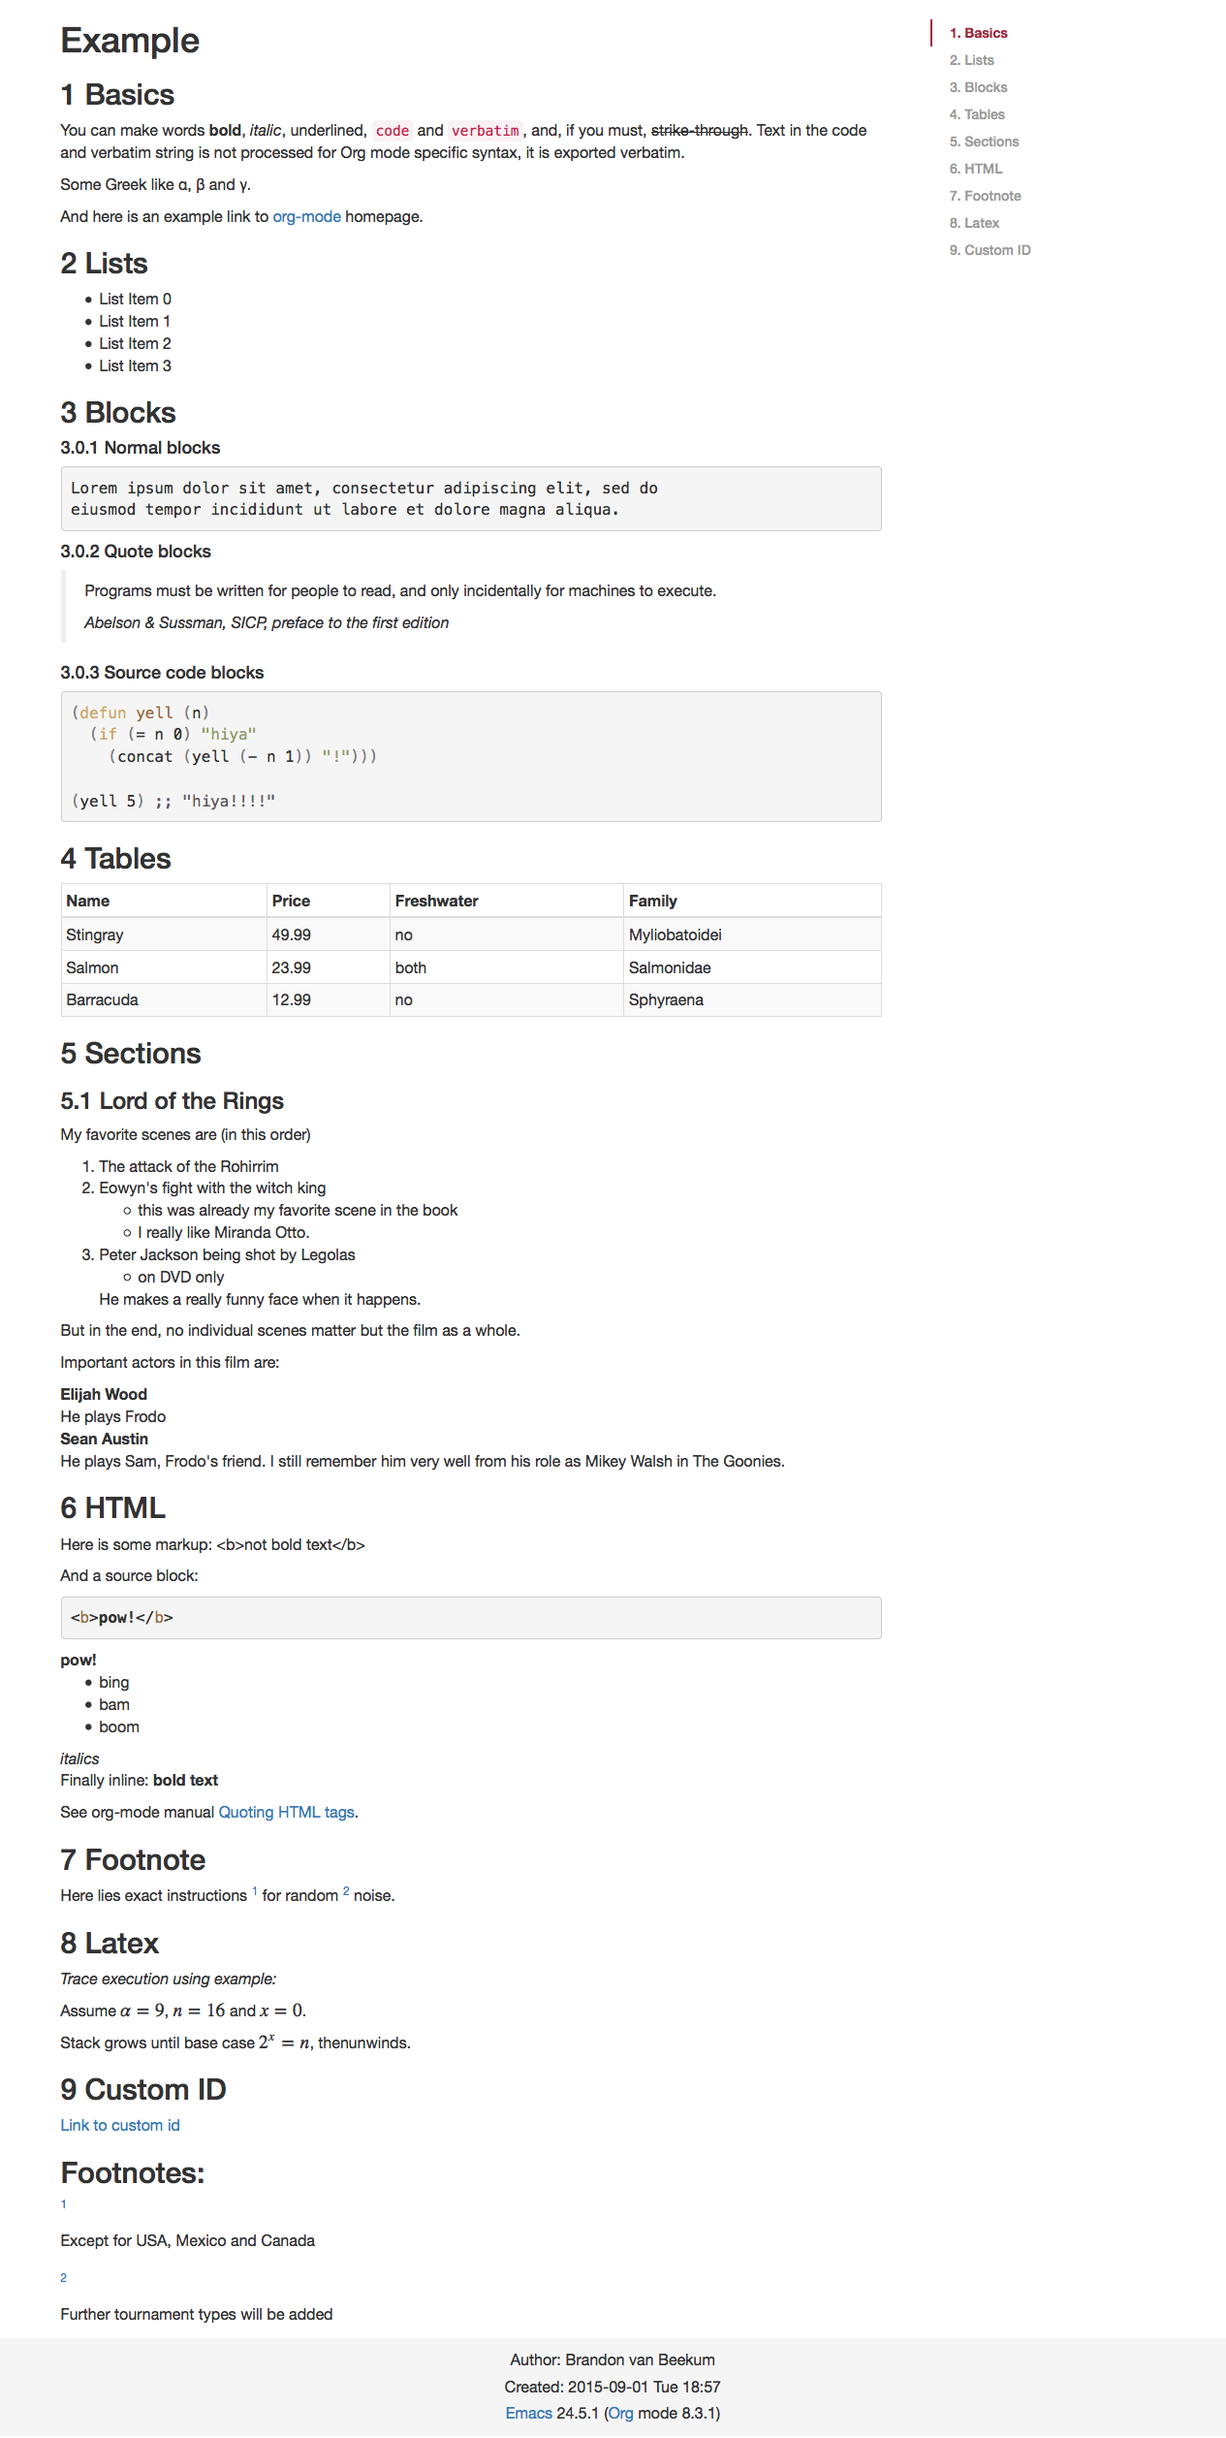
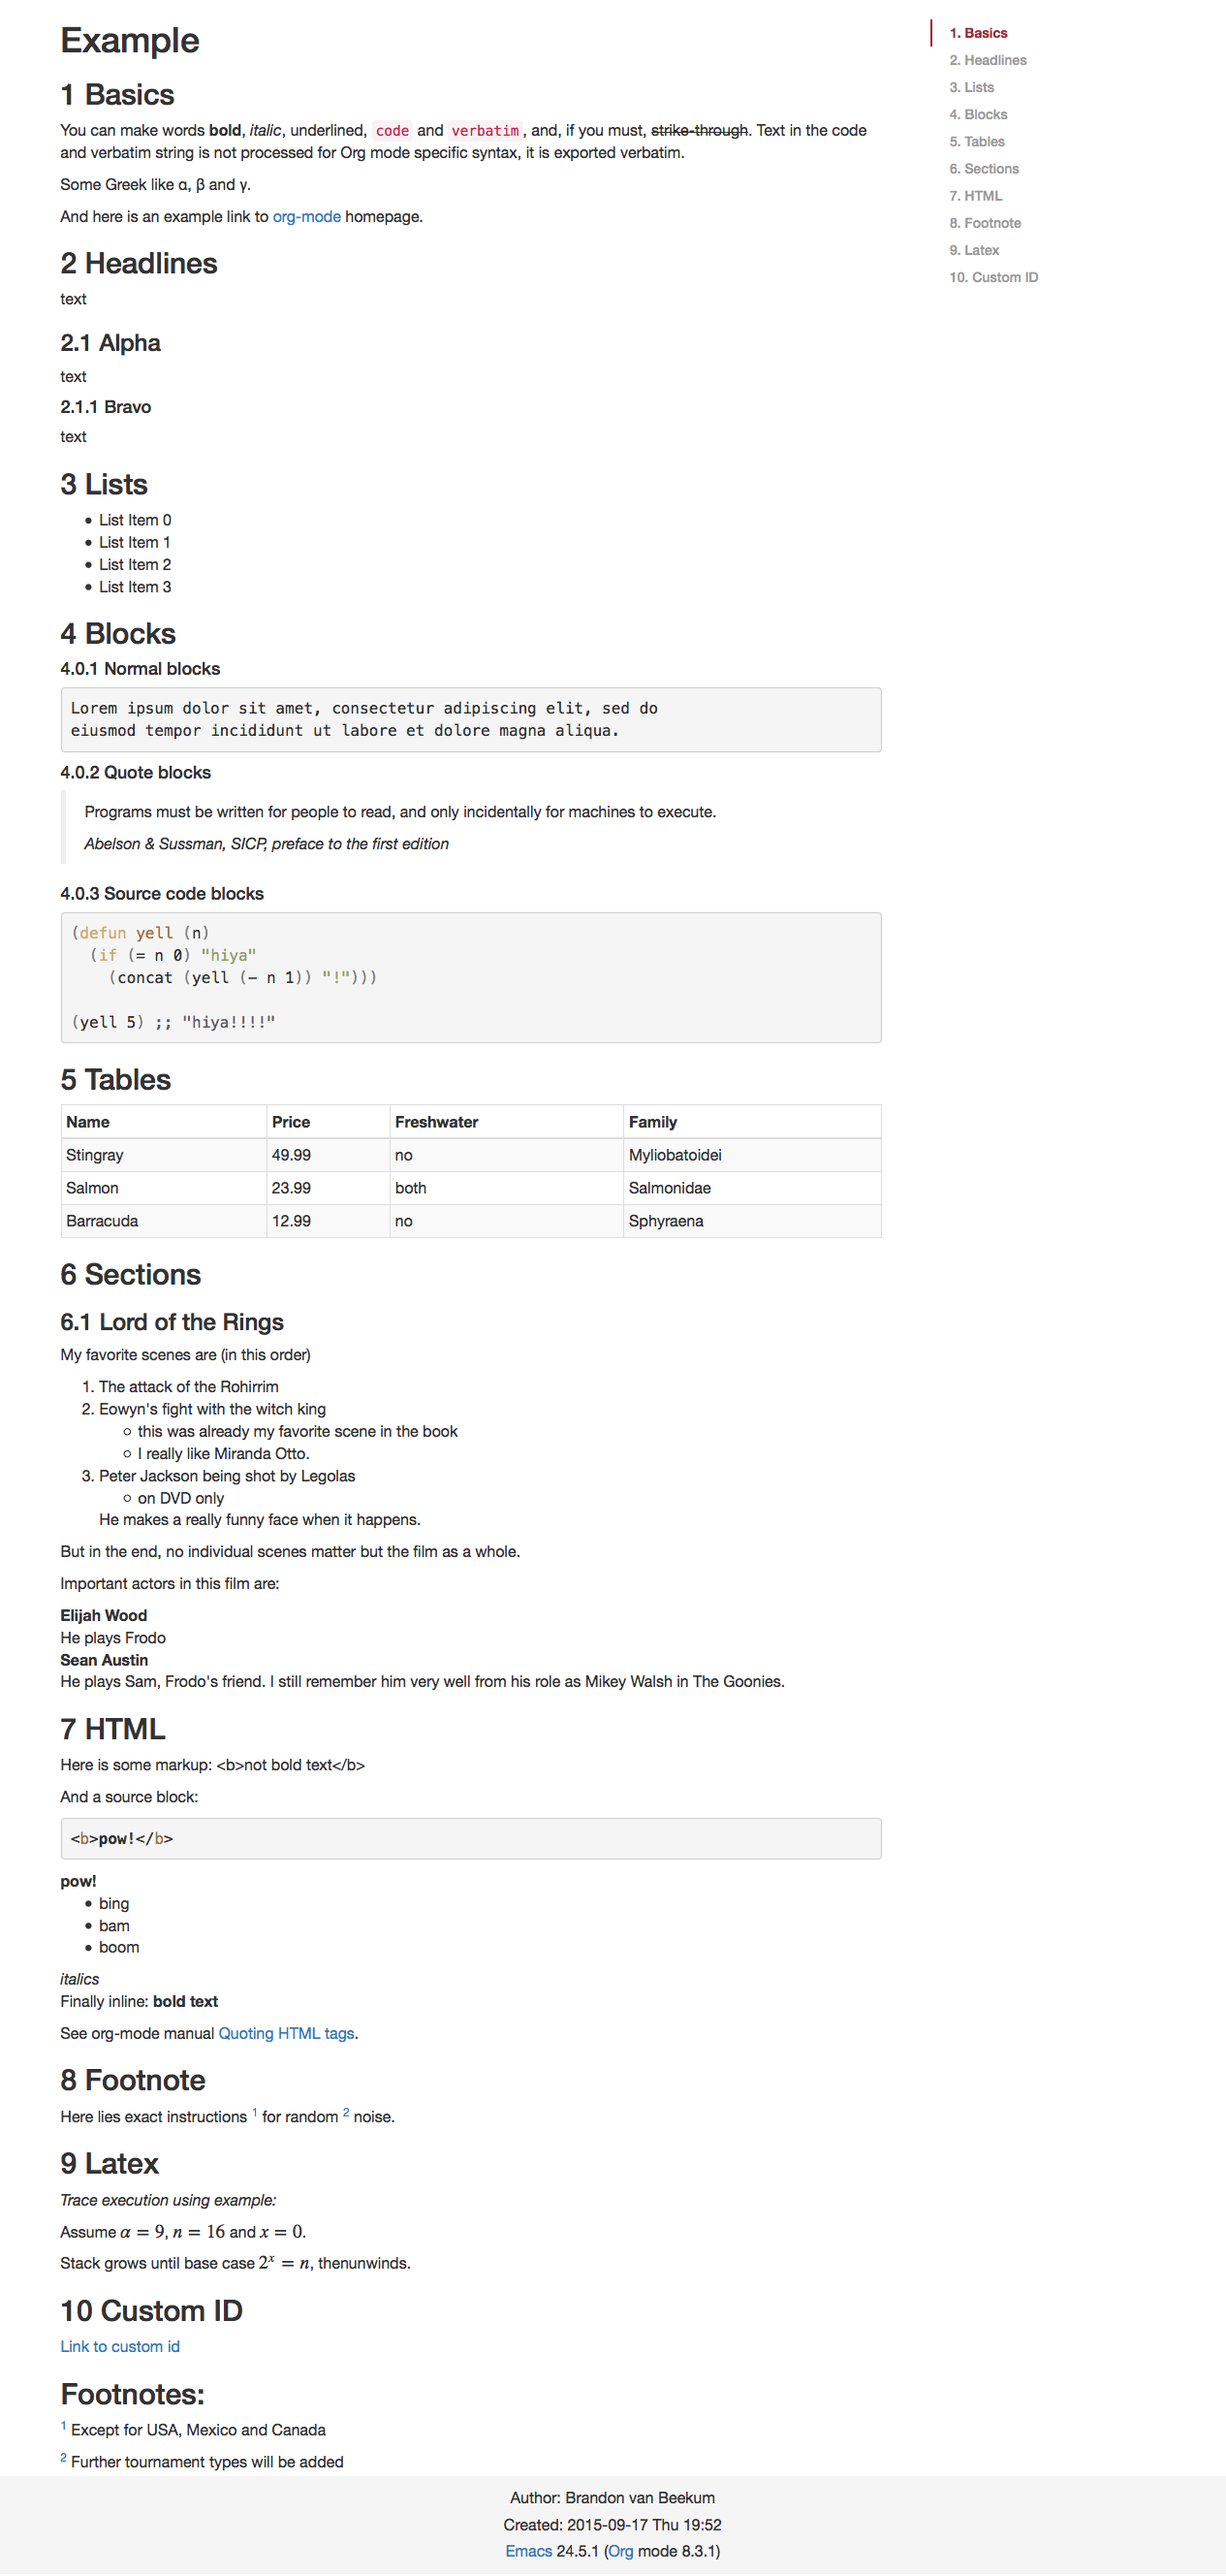
update example with headline section

diff --git a/example/eg0.html b/example/eg0.html
@@ -2,7 +2,7 @@
 <html lang="en">
 <head>
 <title>Example</title>
-<!-- 2015-09-01 Tue 18:57 -->
+<!-- 2015-09-17 Thu 19:52 -->
 <meta charset="utf-8">
 <meta name="viewport" content="width=device-width, initial-scale=1"><meta name="generator" content="Org-mode">
 <meta name="author" content="Brandon van Beekum">
@@ -208,8 +208,35 @@ And here is an example link to <a href="http://orgmode.org/">org-mode</a> homepa
 </div>
 
 <div id="outline-container-sec-2" class="outline-2">
-<h2 id="sec-2"><span class="section-number-2">2</span> Lists</h2>
+<h2 id="sec-2"><span class="section-number-2">2</span> Headlines</h2>
 <div class="outline-text-2" id="text-2">
+<p>
+text
+</p>
+</div>
+
+<div id="outline-container-sec-2-1" class="outline-3">
+<h3 id="sec-2-1"><span class="section-number-3">2.1</span> Alpha</h3>
+<div class="outline-text-3" id="text-2-1">
+<p>
+text
+</p>
+</div>
+
+<div id="outline-container-sec-2-1-1" class="outline-4">
+<h4 id="sec-2-1-1"><span class="section-number-4">2.1.1</span> Bravo</h4>
+<div class="outline-text-4" id="text-2-1-1">
+<p>
+text
+</p>
+</div>
+</div>
+</div>
+</div>
+
+<div id="outline-container-sec-3" class="outline-2">
+<h2 id="sec-3"><span class="section-number-2">3</span> Lists</h2>
+<div class="outline-text-2" id="text-3">
 <ul class="org-ul">
 <li>List Item 0
 </li>
@@ -224,13 +251,13 @@ And here is an example link to <a href="http://orgmode.org/">org-mode</a> homepa
 </div>
 
 <div id="outline-container-blocks" class="outline-2">
-<h2 id="blocks"><a id="sec-3" name="sec-3"></a><span class="section-number-2">3</span> Blocks</h2>
+<h2 id="blocks"><a id="sec-4" name="sec-4"></a><span class="section-number-2">4</span> Blocks</h2>
 <div class="outline-text-2" id="text-blocks">
 </div>
 
-<div id="outline-container-sec-3-0-1" class="outline-4">
-<h4 id="sec-3-0-1"><span class="section-number-4">3.0.1</span> Normal blocks</h4>
-<div class="outline-text-4" id="text-3-0-1">
+<div id="outline-container-sec-4-0-1" class="outline-4">
+<h4 id="sec-4-0-1"><span class="section-number-4">4.0.1</span> Normal blocks</h4>
+<div class="outline-text-4" id="text-4-0-1">
 <pre class="example">
 Lorem ipsum dolor sit amet, consectetur adipiscing elit, sed do
 eiusmod tempor incididunt ut labore et dolore magna aliqua.
@@ -238,9 +265,9 @@ eiusmod tempor incididunt ut labore et dolore magna aliqua.
 </div>
 </div>
 
-<div id="outline-container-sec-3-0-2" class="outline-4">
-<h4 id="sec-3-0-2"><span class="section-number-4">3.0.2</span> Quote blocks</h4>
-<div class="outline-text-4" id="text-3-0-2">
+<div id="outline-container-sec-4-0-2" class="outline-4">
+<h4 id="sec-4-0-2"><span class="section-number-4">4.0.2</span> Quote blocks</h4>
+<div class="outline-text-4" id="text-4-0-2">
 <blockquote>
 <p>
 Programs must be written for people to read, and only incidentally
@@ -254,9 +281,9 @@ for machines to execute.
 </div>
 </div>
 
-<div id="outline-container-sec-3-0-3" class="outline-4">
-<h4 id="sec-3-0-3"><span class="section-number-4">3.0.3</span> Source code blocks</h4>
-<div class="outline-text-4" id="text-3-0-3">
+<div id="outline-container-sec-4-0-3" class="outline-4">
+<h4 id="sec-4-0-3"><span class="section-number-4">4.0.3</span> Source code blocks</h4>
+<div class="outline-text-4" id="text-4-0-3">
 <div class="org-src-container">
 
 <pre class="src src-elisp"><span style="color: #7f7f7f;">(</span><span style="color: #CDA869;">defun</span> <span style="color: #9B703F;">yell</span> <span style="color: #7f7f7f;">(</span>n<span style="color: #7f7f7f;">)</span>
@@ -270,9 +297,9 @@ for machines to execute.
 </div>
 </div>
 
-<div id="outline-container-sec-4" class="outline-2">
-<h2 id="sec-4"><span class="section-number-2">4</span> Tables</h2>
-<div class="outline-text-2" id="text-4">
+<div id="outline-container-sec-5" class="outline-2">
+<h2 id="sec-5"><span class="section-number-2">5</span> Tables</h2>
+<div class="outline-text-2" id="text-5">
 <table class="table table-striped table-bordered table-hover table-condensed">
 
 
@@ -319,12 +346,12 @@ for machines to execute.
 </div>
 </div>
 
-<div id="outline-container-sec-5" class="outline-2">
-<h2 id="sec-5"><span class="section-number-2">5</span> Sections</h2>
-<div class="outline-text-2" id="text-5">
-</div><div id="outline-container-sec-5-1" class="outline-3">
-<h3 id="sec-5-1"><span class="section-number-3">5.1</span> Lord of the Rings</h3>
-<div class="outline-text-3" id="text-5-1">
+<div id="outline-container-sec-6" class="outline-2">
+<h2 id="sec-6"><span class="section-number-2">6</span> Sections</h2>
+<div class="outline-text-2" id="text-6">
+</div><div id="outline-container-sec-6-1" class="outline-3">
+<h3 id="sec-6-1"><span class="section-number-3">6.1</span> Lord of the Rings</h3>
+<div class="outline-text-3" id="text-6-1">
 <p>
 My favorite scenes are (in this order)
 </p>
@@ -370,9 +397,9 @@ him very well from his role as Mikey Walsh in The Goonies.
 </div>
 </div>
 
-<div id="outline-container-sec-6" class="outline-2">
-<h2 id="sec-6"><span class="section-number-2">6</span> HTML</h2>
-<div class="outline-text-2" id="text-6">
+<div id="outline-container-sec-7" class="outline-2">
+<h2 id="sec-7"><span class="section-number-2">7</span> HTML</h2>
+<div class="outline-text-2" id="text-7">
 <p>
 Here is some markup: &lt;b&gt;not bold text&lt;/b&gt;
 </p>
@@ -406,18 +433,18 @@ See org-mode manual <a href="http://orgmode.org/manual/Quoting-HTML-tags.html#Qu
 </div>
 </div>
 
-<div id="outline-container-sec-7" class="outline-2">
-<h2 id="sec-7"><span class="section-number-2">7</span> Footnote</h2>
-<div class="outline-text-2" id="text-7">
+<div id="outline-container-sec-8" class="outline-2">
+<h2 id="sec-8"><span class="section-number-2">8</span> Footnote</h2>
+<div class="outline-text-2" id="text-8">
 <p>
 Here lies exact instructions <sup><a id="fnr.1" name="fnr.1" class="footref" href="#fn.1">1</a></sup> for random <sup><a id="fnr.2" name="fnr.2" class="footref" href="#fn.2">2</a></sup> noise.
 </p>
 </div>
 </div>
 
-<div id="outline-container-sec-8" class="outline-2">
-<h2 id="sec-8"><span class="section-number-2">8</span> Latex</h2>
-<div class="outline-text-2" id="text-8">
+<div id="outline-container-sec-9" class="outline-2">
+<h2 id="sec-9"><span class="section-number-2">9</span> Latex</h2>
+<div class="outline-text-2" id="text-9">
 <p>
 <i>Trace execution using example:</i>
 </p>
@@ -432,9 +459,9 @@ Stack grows until base case \(2^{x}=n\), thenunwinds.
 </div>
 </div>
 
-<div id="outline-container-sec-9" class="outline-2">
-<h2 id="sec-9"><span class="section-number-2">9</span> Custom ID</h2>
-<div class="outline-text-2" id="text-9">
+<div id="outline-container-sec-10" class="outline-2">
+<h2 id="sec-10"><span class="section-number-2">10</span> Custom ID</h2>
+<div class="outline-text-2" id="text-10">
 <p>
 <a href="#blocks">Link to custom id</a>
 </p>
@@ -444,13 +471,13 @@ Stack grows until base case \(2^{x}=n\), thenunwinds.
 <h2 class="footnotes">Footnotes: </h2>
 <div id="text-footnotes">
 
-<div class="footdef"><sup><a id="fn.1" name="fn.1" class="footnum" href="#fnr.1">1</a></sup> <p><p class="footpara">
+<div class="footdef"><sup><a id="fn.1" name="fn.1" class="footnum" href="#fnr.1">1</a></sup> <p class="footpara">
 Except for USA, Mexico and Canada
-</p></p></div>
+</p></div>
 
-<div class="footdef"><sup><a id="fn.2" name="fn.2" class="footnum" href="#fnr.2">2</a></sup> <p><p class="footpara">
+<div class="footdef"><sup><a id="fn.2" name="fn.2" class="footnum" href="#fnr.2">2</a></sup> <p class="footpara">
 Further tournament types will be added
-</p></p></div>
+</p></div>
 
 
 </div>
@@ -458,25 +485,30 @@ Further tournament types will be added
 <div id="text-table-of-contents" class="bs-docs-sidebar">
 <ul class="nav">
 <li><a href="#sec-1">1. Basics</a></li>
-<li><a href="#sec-2">2. Lists</a></li>
-<li><a href="#blocks">3. Blocks</a></li>
-<li><a href="#sec-4">4. Tables</a></li>
-<li><a href="#sec-5">5. Sections</a>
+<li><a href="#sec-2">2. Headlines</a>
 <ul class="nav">
-<li><a href="#sec-5-1">5.1. Lord of the Rings</a></li>
+<li><a href="#sec-2-1">2.1. Alpha</a></li>
 </ul>
 </li>
-<li><a href="#sec-6">6. HTML</a></li>
-<li><a href="#sec-7">7. Footnote</a></li>
-<li><a href="#sec-8">8. Latex</a></li>
-<li><a href="#sec-9">9. Custom ID</a></li>
+<li><a href="#sec-3">3. Lists</a></li>
+<li><a href="#blocks">4. Blocks</a></li>
+<li><a href="#sec-5">5. Tables</a></li>
+<li><a href="#sec-6">6. Sections</a>
+<ul class="nav">
+<li><a href="#sec-6-1">6.1. Lord of the Rings</a></li>
+</ul>
+</li>
+<li><a href="#sec-7">7. HTML</a></li>
+<li><a href="#sec-8">8. Footnote</a></li>
+<li><a href="#sec-9">9. Latex</a></li>
+<li><a href="#sec-10">10. Custom ID</a></li>
 </ul>
 </div>
 </nav>
 </div></div></div>
 <footer id="postamble" class="">
 <div><p class="author">Author: Brandon van Beekum</p>
-<p class="date">Created: 2015-09-01 Tue 18:57</p>
+<p class="date">Created: 2015-09-17 Thu 19:52</p>
 <p class="creator"><a href="http://www.gnu.org/software/emacs/">Emacs</a> 24.5.1 (<a href="http://orgmode.org">Org</a> mode 8.3.1)</p>
 </div>
 </footer>
